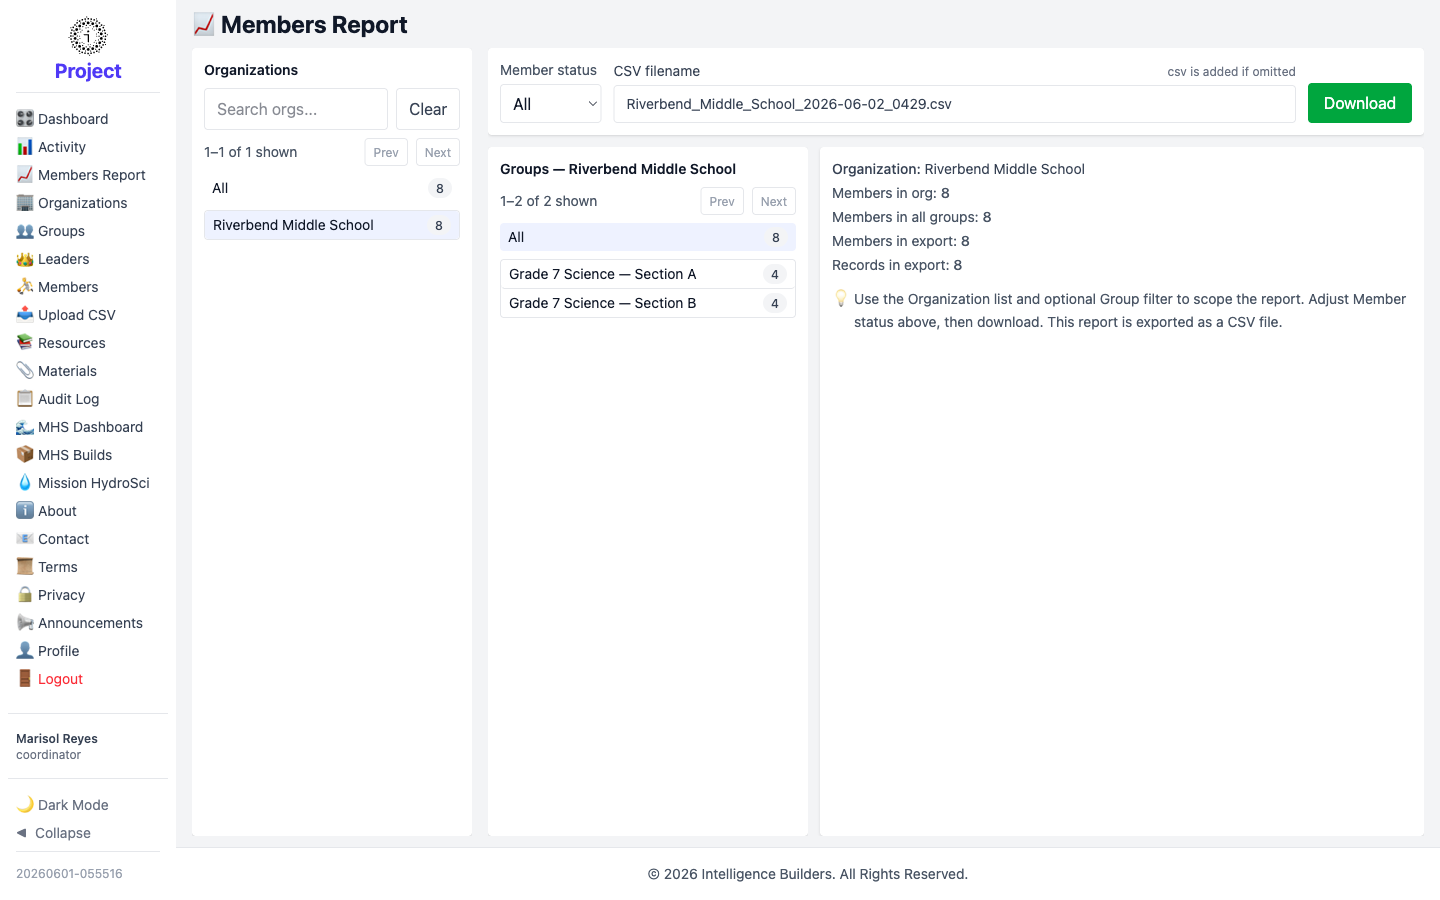
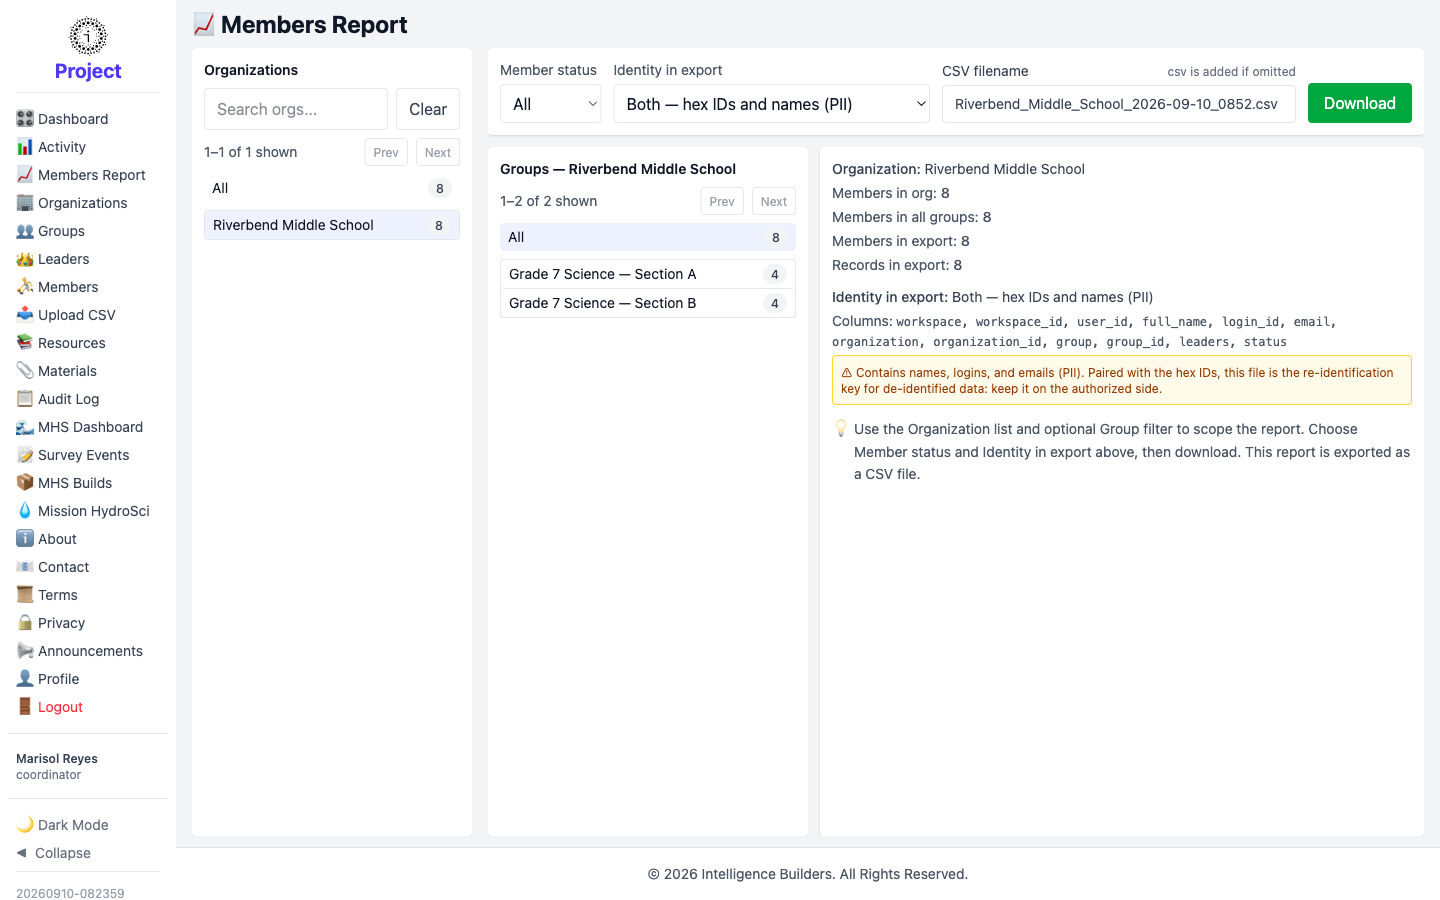
User docs: Members Report screenshots show the Identity in export selector
Recaptured the admin, analyst, and coordinator Members Report screens and
the analyst overview (light + dark) with the current toolbar, and added a
De-identified capture to the admin and analyst guides showing the hex-ID
column list and the safe-to-share note.

Claude-Session: https://claude.ai/code/session_011mkbwVxXkn2ijDjiFsYdCF

diff --git a/docs/stratahub-user-documentation/admin/members-report.md b/docs/stratahub-user-documentation/admin/members-report.md
@@ -26,6 +26,14 @@ Work left to right across the panels:
    someone who must not receive names, such as a research partner working with
    de-identified data.
 
+With **De-identified** selected, the summary lists only the hex-ID columns and
+shows the green note that the file is safe to share:
+
+<picture>
+  <source media="(prefers-color-scheme: dark)" srcset="images/members-report-deidentified-dark.png">
+  <img alt="Members Report with Identity in export set to De-identified, listing the hex-ID columns and a green safe-to-share note" src="images/members-report-deidentified-light.png">
+</picture>
+
 ## Checking the totals
 
 As you adjust the filters, the summary updates to show exactly what the export will

diff --git a/docs/stratahub-user-documentation/analyst/members-report.md b/docs/stratahub-user-documentation/analyst/members-report.md
@@ -21,6 +21,11 @@ Work left to right across the panels:
    de-identified data; the summary shows a green note when the file is safe to
    share that way and an amber note when it carries personal information.
 
+<picture>
+  <source media="(prefers-color-scheme: dark)" srcset="images/members-report-deidentified-dark.png">
+  <img alt="Analyst's Members Report with Identity in export set to De-identified, listing the hex-ID columns and a green safe-to-share note" src="images/members-report-deidentified-light.png">
+</picture>
+
 ## Checking the totals and downloading
 
 The summary shows how many **members** and **records** the export will contain
